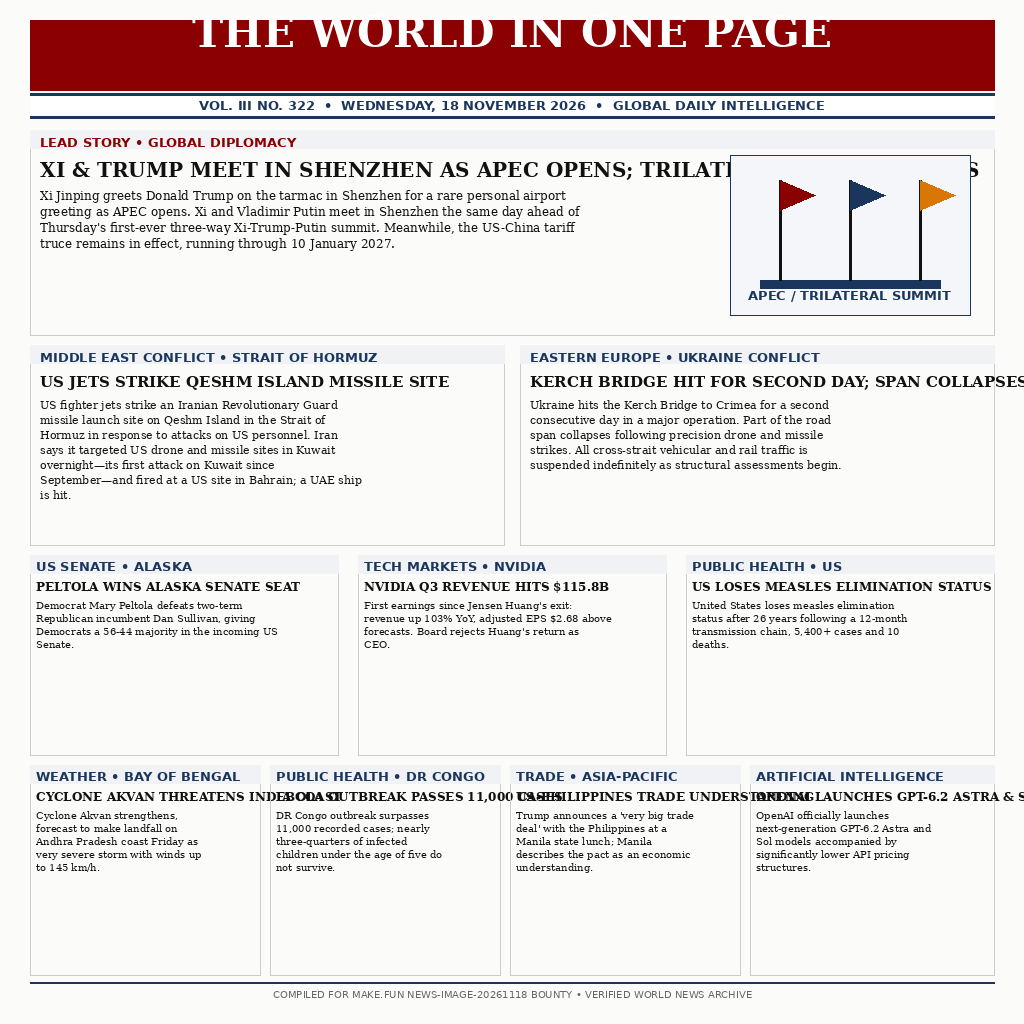
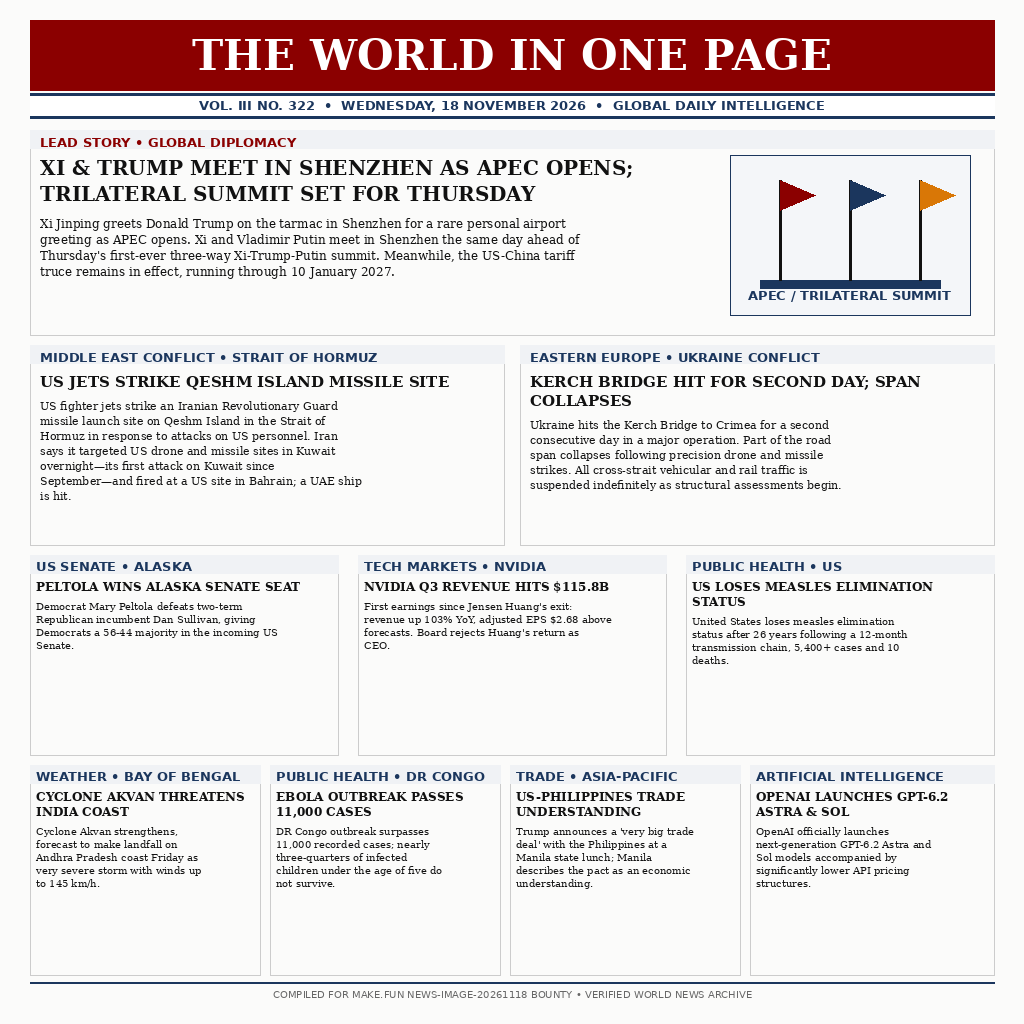
Fix front-page legibility: wrap headlines to box width, center masthead, fix lead headline

diff --git a/draw.py b/draw.py
@@ -34,7 +34,7 @@ def create_newspaper():
 
     # --- MASTHEAD ---
     draw.rectangle([30, 20, 994, 90], fill=c_red)
-    draw.text((512, 32), "THE WORLD IN ONE PAGE", fill="#FFFFFF", font=f_masthead, anchor="mm")
+    draw.text((512, 55), "THE WORLD IN ONE PAGE", fill="#FFFFFF", font=f_masthead, anchor="mm")
     
     # Sub-masthead bar
     draw.rectangle([30, 93, 994, 118], fill="#FFFFFF")
@@ -53,9 +53,10 @@ def create_newspaper():
     draw.rectangle([30, 130, 994, 148], fill="#F0F2F5")
     draw.text((40, 134), "LEAD STORY • GLOBAL DIPLOMACY", fill=c_red, font=f_subhead)
     
-    # Lead title & body
-    draw.text((40, 158), "XI & TRUMP MEET IN SHENZHEN AS APEC OPENS; TRILATERAL SUMMIT LOADS", fill=c_black, font=f_lead_title)
-    
+    # Lead title & body (title wrapped to the text column, clear of the pictogram)
+    lead_title = "XI & TRUMP MEET IN SHENZHEN AS APEC OPENS; TRILATERAL SUMMIT SET FOR THURSDAY"
+    n_lead = draw_wrapped(draw, 40, 156, lead_title, f_lead_title, c_black, 680, 26)
+
     lead_text = (
         "Xi Jinping greets Donald Trump on the tarmac in Shenzhen for a rare personal airport greeting as APEC opens. "
         "Xi and Vladimir Putin meet in Shenzhen the same day ahead of Thursday's first-ever three-way Xi-Trump-Putin summit. "
@@ -63,7 +64,7 @@ def create_newspaper():
     )
     # Simple word wrap simulation for lead body (two columns inside lead box)
     # Left text column: x=40 to 680, Right pictogram: x=700 to 984
-    y = 188
+    y = 156 + n_lead * 26 + 8
     for line in wrap_text(lead_text, 85):
         draw.text((40, y), line, fill=c_black, font=f_lead_body)
         y += 16
@@ -84,15 +85,15 @@ def create_newspaper():
     draw.rectangle([30, 345, 504, 545], outline=c_line, width=1)
     draw.rectangle([30, 345, 504, 363], fill="#F0F2F5")
     draw.text((40, 349), "MIDDLE EAST CONFLICT • STRAIT OF HORMUZ", fill=c_navy, font=f_subhead)
-    draw.text((40, 372), "US JETS STRIKE QESHM ISLAND MISSILE SITE", fill=c_black, font=f_med_title)
-    
+    n_m1 = draw_wrapped(draw, 40, 372, "US JETS STRIKE QESHM ISLAND MISSILE SITE", f_med_title, c_black, 464, 19)
+
     m1_text = (
         "US fighter jets strike an Iranian Revolutionary Guard missile launch site "
         "on Qeshm Island in the Strait of Hormuz in response to attacks on US personnel. "
         "Iran says it targeted US drone and missile sites in Kuwait overnight—its first attack "
         "on Kuwait since September—and fired at a US site in Bahrain; a UAE ship is hit."
     )
-    y = 398
+    y = 372 + n_m1 * 19 + 8
     for line in wrap_text(m1_text, 55):
         draw.text((40, y), line, fill=c_black, font=f_med_body)
         y += 15
@@ -101,14 +102,14 @@ def create_newspaper():
     draw.rectangle([520, 345, 994, 545], outline=c_line, width=1)
     draw.rectangle([520, 345, 994, 363], fill="#F0F2F5")
     draw.text((530, 349), "EASTERN EUROPE • UKRAINE CONFLICT", fill=c_navy, font=f_subhead)
-    draw.text((530, 372), "KERCH BRIDGE HIT FOR SECOND DAY; SPAN COLLAPSES", fill=c_black, font=f_med_title)
-    
+    n_m2 = draw_wrapped(draw, 530, 372, "KERCH BRIDGE HIT FOR SECOND DAY; SPAN COLLAPSES", f_med_title, c_black, 464, 19)
+
     m2_text = (
         "Ukraine hits the Kerch Bridge to Crimea for a second consecutive day in a major operation. "
         "Part of the road span collapses following precision drone and missile strikes. "
         "All cross-strait vehicular and rail traffic is suspended indefinitely as structural assessments begin."
     )
-    y = 398
+    y = 372 + n_m2 * 19 + 8
     for line in wrap_text(m2_text, 55):
         draw.text((530, y), line, fill=c_black, font=f_med_body)
         y += 15
@@ -155,12 +156,12 @@ def create_newspaper():
         draw.rectangle([x1, y1, x2, y1+18], fill="#F0F2F5")
         draw.text((x1+6, y1+3), cat, fill=c_navy, font=f_subhead)
         
-        # Title (wrap if needed)
-        draw.text((x1+6, y1+24), title, fill=c_black, font=f_small_title)
-        
+        # Title (wrapped to the box width, never overflowing into the next box)
+        n_title = draw_wrapped(draw, x1+6, y1+24, title, f_small_title, c_black, x2-x1-12, 15)
+
         # Body text wrap
         bw = int((x2 - x1 - 12) / 6.5) # approximate chars per line
-        y_text = y1+44
+        y_text = y1+24+n_title*15+6
         for line in wrap_text(body, max(25, int(bw))):
             if y_text < y2 - 12:
                 draw.text((x1+6, y_text), line, fill=c_black, font=f_small_body)
@@ -173,6 +174,29 @@ def create_newspaper():
     # Save output
     image.save("entry.png", "PNG")
     print("Successfully generated entry.png (1024x1024)")
+
+def wrap_to_width(draw, text, font, max_width):
+    words = text.split()
+    lines = []
+    cur = ""
+    for w in words:
+        trial = (cur + " " + w).strip()
+        if draw.textlength(trial, font=font) <= max_width:
+            cur = trial
+        else:
+            if cur:
+                lines.append(cur)
+            cur = w
+    if cur:
+        lines.append(cur)
+    return lines
+
+def draw_wrapped(draw, x, y, text, font, fill, max_width, line_height):
+    lines = wrap_to_width(draw, text, font, max_width)
+    for ln in lines:
+        draw.text((x, y), ln, fill=fill, font=font)
+        y += line_height
+    return len(lines)
 
 def wrap_text(text, width_chars):
     words = text.split()
